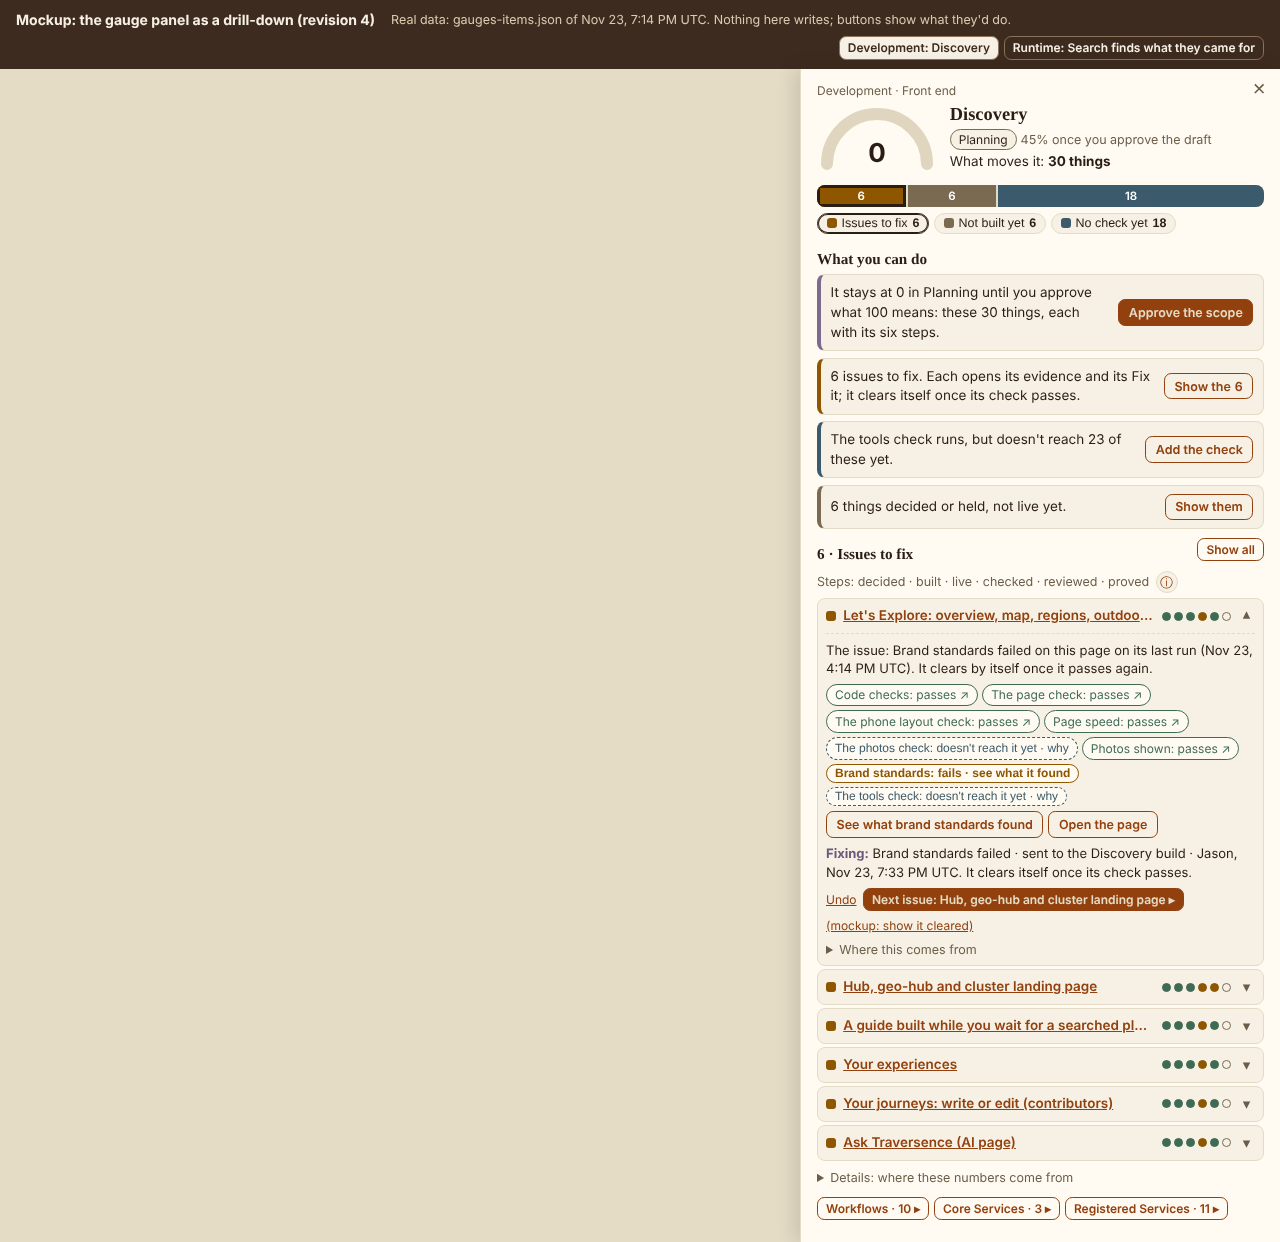
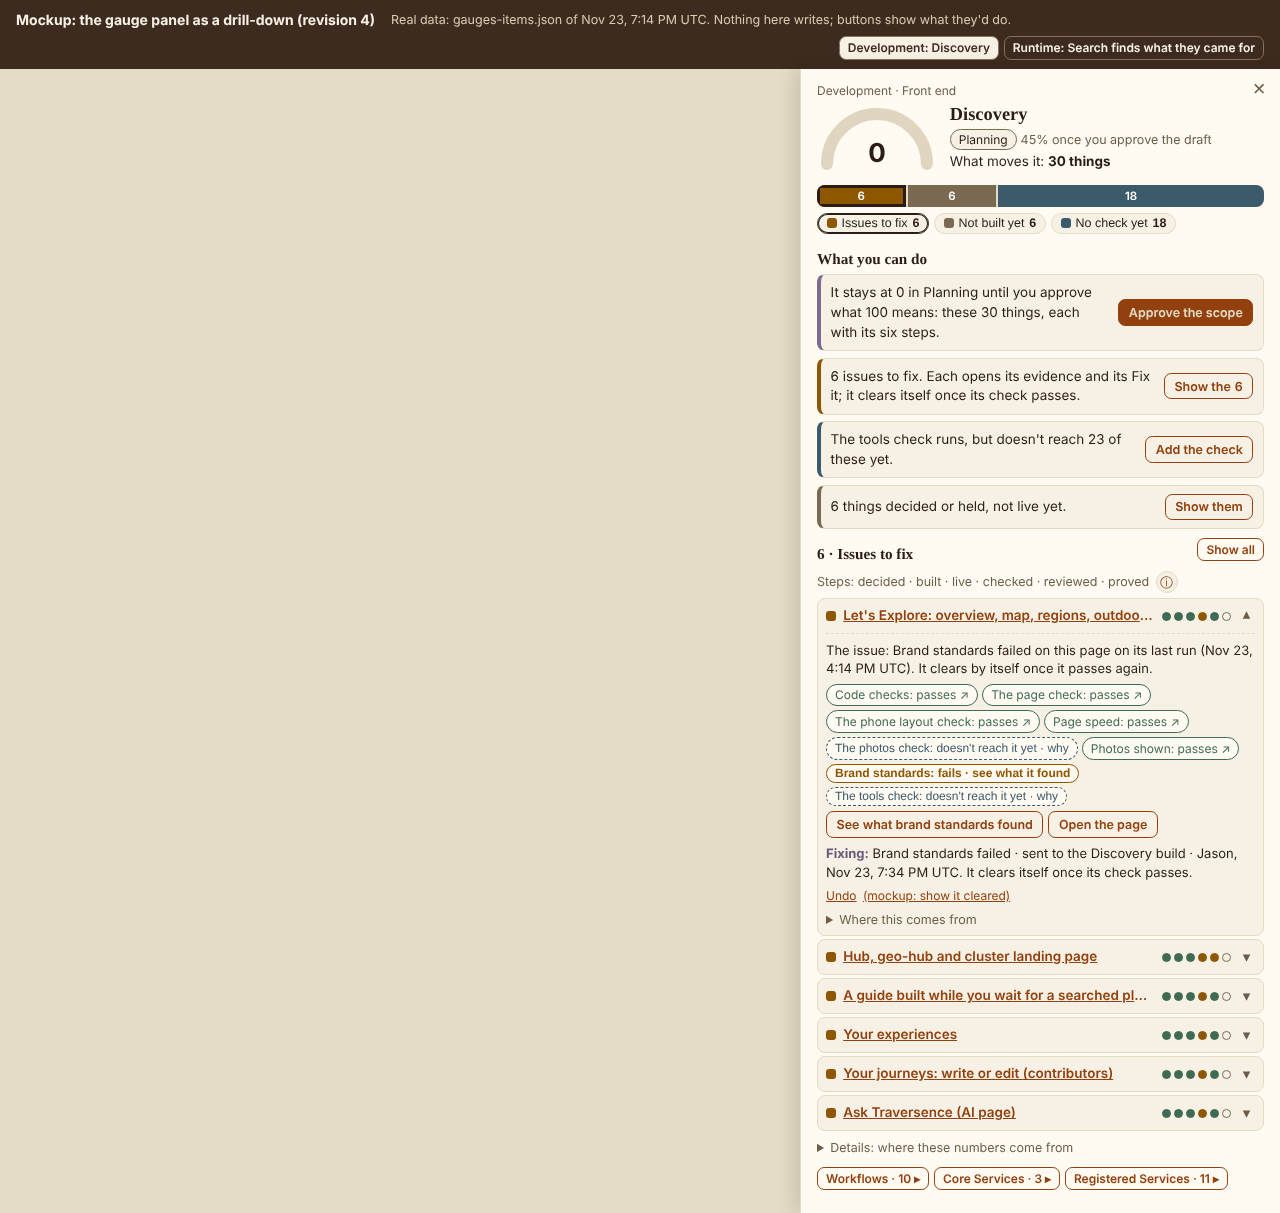
Gauge panel mockup, revision 4: one item, one cycle (no Next), per CLAUDE.md #1309
Claude-Session: https://claude.ai/code/session_01CXLi5hL7DpeN9WxT3oMXQK

Changed region(s): [[0.625, 0.0, 1.0, 1.0]]

diff --git a/handoffs/gauge-panel/mockup.html b/handoffs/gauge-panel/mockup.html
@@ -105,11 +105,10 @@ function filt(sp,f){const on=f&&f!=='all'&&sp._f!==f?f:null;sp._f=on;const ul=$(
 function done(btn,line){const box=btn.closest('.acts')||btn.parentNode;const d=document.createElement('div');d.className='done';
  d.innerHTML='<span>'+line+'</span><button type="button" class="sl" data-undo>Undo</button>'+(btn.dataset.send!==undefined?'<button type="button" class="sl" data-demo>(mockup: show it cleared)</button>':'');
  d.querySelector('[data-undo]').onclick=()=>{btn.hidden=false;d.remove();toast('Undone.');};
- // step 3 confirmed by its check, then step 4: the next step as its own button (CLAUDE.md "Every action is a task")
- const demo=d.querySelector('[data-demo]');if(demo)demo.onclick=()=>{const nx=btn.dataset.next||'';box.hidden=true;const it=btn.closest('.it');if(it){$$('.chip.c-fail',it).forEach(c=>c.remove());move(it);}
-  d.innerHTML='<span><b class="ok">Cleared:</b> its check passed, '+now()+'.</span>'+(nx?'<button type="button" class="b go sm" data-send="next" data-what="'+esc(nx)+'">Next: '+esc(nx)+'</button>':'<span>Nothing more: every step met.</span>');};
+ // one item is one cycle; it ends at its confirmation, cleared by its check, and the counts follow (CLAUDE.md #1309)
+ const demo=d.querySelector('[data-demo]');if(demo)demo.onclick=()=>{box.hidden=true;const it=btn.closest('.it');if(it){$$('.chip.c-fail',it).forEach(c=>c.remove());move(it);}
+  d.innerHTML='<span><b class="ok">Cleared:</b> its check passed, '+now()+'.</span>';};
  btn.hidden=true;box.after(d);}
-// step 4 right after Fixing: the next issue opens, or the last one goes back to the gauge (Design reviewer, 2026-11-23)
 // counts follow the state (Design reviewer, 2026-11-23): a cleared item leaves its group, every count drops with it
 function move(it){const sp=it.closest('.sp');const to=it.dataset.after||'ok';it.dataset.b=to;const bk=it.querySelector('.ih .bk');if(bk)bk.className='bk bk-'+to;
  const n=$$('.it[data-b]',sp).length,c={};$$('.it[data-b]',sp).forEach(x=>c[x.dataset.b]=(c[x.dataset.b]||0)+1);
@@ -119,13 +118,7 @@ function move(it){const sp=it.closest('.sp');const to=it.dataset.after||'ok';it.
  const dl=it.querySelector('.dots');if(dl)dl.setAttribute('aria-label',dl.getAttribute('aria-label').replace(/an issue/g,to==='check'?'no check yet':'met'));
  const dw=it.querySelector('.dword');if(dw)dw.textContent=to==='check'?'No check yet at checked':'Every step met';
  const h=$('#lh-t',sp);if(h&&sp._f){const lg=$('.lg[data-f='+sp._f+']',sp);h.textContent=(c[sp._f]||0)+' · '+lg.textContent.replace(/\s*\d+$/,'').trim()+' (1 just cleared, still shown)';}
-}   // the row stays in view with its Cleared line and Next; it leaves the list the next time the list is filtered
-function nextIssue(btn){const it=btn.closest('.it[data-b]');if(!it)return;const sp=it.closest('.sp');const d=it.querySelector('.done');
- const rest=$$('.it[data-b='+it.dataset.b+']',sp).filter(x=>x!==it&&!x.querySelector('.done'));const b=document.createElement('button');b.type='button';b.className='b go sm';
- if(rest.length){const nx=rest[0];b.textContent='Next issue: '+nx.querySelector('.nm').textContent+' ▸';b.onclick=()=>{it.querySelector('.ib').hidden=true;it.querySelector('.ex').setAttribute('aria-expanded','false');
-  $('.items',sp).classList.add('all');nx.hidden=false;nx.querySelector('.ib').hidden=false;nx.querySelector('.ex').setAttribute('aria-expanded','true');nx.scrollIntoView({block:'nearest',behavior:'smooth'});nx.querySelector('.ib .b.go').focus({preventScroll:true});};}
- else{const n=$$('.it[data-b='+it.dataset.b+']',sp).length;b.textContent='All '+n+' sent: back to the gauge';b.onclick=()=>{sp.scrollIntoView({block:'start',behavior:'smooth'});};}
- d.querySelector('[data-demo]').before(b);}
+}   // the row stays in view with its Cleared line; it leaves the list the next time the list is filtered
 document.addEventListener('click',ev=>{const t=ev.target.closest('button,a');const leg=$('.dleg:not([hidden])');
  if(leg&&!ev.target.closest('.dleg,.info')){leg.hidden=true;$('.info[aria-expanded=true]').setAttribute('aria-expanded','false');}
  if(!t)return;const sp=t.closest('.sp');
@@ -139,7 +132,7 @@ document.addEventListener('click',ev=>{const t=ev.target.closest('button,a');con
  const href=t.getAttribute('href')||'';
  if(href.startsWith('#ac-')){ev.preventDefault();const c=$(href);c.scrollIntoView({block:'center',behavior:'smooth'});c.classList.add('flash');setTimeout(()=>c.classList.remove('flash'),1400);c.querySelector('.b').focus({preventScroll:true});return;}
  if(href.startsWith('#site-health')){ev.preventDefault();toast('Scrolls to its row in Site health, on the Development page under the gauges.');return;}
- if(t.dataset.send!==undefined){const g=(sp&&sp.dataset.gauge)||'its';done(t,'<b>Fixing:</b> '+esc(t.dataset.what||'the issue')+' · sent to the '+esc(g)+' build · Jason, '+now()+'. It clears itself once its check passes.');nextIssue(t);return;}
+ if(t.dataset.send!==undefined){const g=(sp&&sp.dataset.gauge)||'its';done(t,'<b>Fixing:</b> '+esc(t.dataset.what||'the issue')+' · sent to the '+esc(g)+' build · Jason, '+now()+'. It clears itself once its check passes.');return;}
  if(t.dataset.sign!==undefined){const s=t.dataset.sign;done(t,s==='scope'?'<b>Scope approved</b> by Jason, '+now()+'. The gauge leaves Planning.':s==='target'?'<b>Target approved</b> by Jason, '+now()+'.':'<b>Done</b> by Jason, '+now()+'.');return;}
  if(t.dataset.path){toast('Opens the '+t.textContent.replace(/\s*·.*/,'')+' path: each one a row that opens its own page.');return;}
  if(t.dataset.open&&sp){ev.preventDefault();sub(sp,t.dataset.open,t.dataset.id);return;}

diff --git a/handoffs/gauge-panel/mockup.js b/handoffs/gauge-panel/mockup.js
@@ -17,11 +17,10 @@ function filt(sp,f){const on=f&&f!=='all'&&sp._f!==f?f:null;sp._f=on;const ul=$(
 function done(btn,line){const box=btn.closest('.acts')||btn.parentNode;const d=document.createElement('div');d.className='done';
  d.innerHTML='<span>'+line+'</span><button type="button" class="sl" data-undo>Undo</button>'+(btn.dataset.send!==undefined?'<button type="button" class="sl" data-demo>(mockup: show it cleared)</button>':'');
  d.querySelector('[data-undo]').onclick=()=>{btn.hidden=false;d.remove();toast('Undone.');};
- // step 3 confirmed by its check, then step 4: the next step as its own button (CLAUDE.md "Every action is a task")
- const demo=d.querySelector('[data-demo]');if(demo)demo.onclick=()=>{const nx=btn.dataset.next||'';box.hidden=true;const it=btn.closest('.it');if(it){$$('.chip.c-fail',it).forEach(c=>c.remove());move(it);}
-  d.innerHTML='<span><b class="ok">Cleared:</b> its check passed, '+now()+'.</span>'+(nx?'<button type="button" class="b go sm" data-send="next" data-what="'+esc(nx)+'">Next: '+esc(nx)+'</button>':'<span>Nothing more: every step met.</span>');};
+ // one item is one cycle; it ends at its confirmation, cleared by its check, and the counts follow (CLAUDE.md #1309)
+ const demo=d.querySelector('[data-demo]');if(demo)demo.onclick=()=>{box.hidden=true;const it=btn.closest('.it');if(it){$$('.chip.c-fail',it).forEach(c=>c.remove());move(it);}
+  d.innerHTML='<span><b class="ok">Cleared:</b> its check passed, '+now()+'.</span>';};
  btn.hidden=true;box.after(d);}
-// step 4 right after Fixing: the next issue opens, or the last one goes back to the gauge (Design reviewer, 2026-11-23)
 // counts follow the state (Design reviewer, 2026-11-23): a cleared item leaves its group, every count drops with it
 function move(it){const sp=it.closest('.sp');const to=it.dataset.after||'ok';it.dataset.b=to;const bk=it.querySelector('.ih .bk');if(bk)bk.className='bk bk-'+to;
  const n=$$('.it[data-b]',sp).length,c={};$$('.it[data-b]',sp).forEach(x=>c[x.dataset.b]=(c[x.dataset.b]||0)+1);
@@ -31,13 +30,7 @@ function move(it){const sp=it.closest('.sp');const to=it.dataset.after||'ok';it.
  const dl=it.querySelector('.dots');if(dl)dl.setAttribute('aria-label',dl.getAttribute('aria-label').replace(/an issue/g,to==='check'?'no check yet':'met'));
  const dw=it.querySelector('.dword');if(dw)dw.textContent=to==='check'?'No check yet at checked':'Every step met';
  const h=$('#lh-t',sp);if(h&&sp._f){const lg=$('.lg[data-f='+sp._f+']',sp);h.textContent=(c[sp._f]||0)+' · '+lg.textContent.replace(/\s*\d+$/,'').trim()+' (1 just cleared, still shown)';}
-}   // the row stays in view with its Cleared line and Next; it leaves the list the next time the list is filtered
-function nextIssue(btn){const it=btn.closest('.it[data-b]');if(!it)return;const sp=it.closest('.sp');const d=it.querySelector('.done');
- const rest=$$('.it[data-b='+it.dataset.b+']',sp).filter(x=>x!==it&&!x.querySelector('.done'));const b=document.createElement('button');b.type='button';b.className='b go sm';
- if(rest.length){const nx=rest[0];b.textContent='Next issue: '+nx.querySelector('.nm').textContent+' ▸';b.onclick=()=>{it.querySelector('.ib').hidden=true;it.querySelector('.ex').setAttribute('aria-expanded','false');
-  $('.items',sp).classList.add('all');nx.hidden=false;nx.querySelector('.ib').hidden=false;nx.querySelector('.ex').setAttribute('aria-expanded','true');nx.scrollIntoView({block:'nearest',behavior:'smooth'});nx.querySelector('.ib .b.go').focus({preventScroll:true});};}
- else{const n=$$('.it[data-b='+it.dataset.b+']',sp).length;b.textContent='All '+n+' sent: back to the gauge';b.onclick=()=>{sp.scrollIntoView({block:'start',behavior:'smooth'});};}
- d.querySelector('[data-demo]').before(b);}
+}   // the row stays in view with its Cleared line; it leaves the list the next time the list is filtered
 document.addEventListener('click',ev=>{const t=ev.target.closest('button,a');const leg=$('.dleg:not([hidden])');
  if(leg&&!ev.target.closest('.dleg,.info')){leg.hidden=true;$('.info[aria-expanded=true]').setAttribute('aria-expanded','false');}
  if(!t)return;const sp=t.closest('.sp');
@@ -51,7 +44,7 @@ document.addEventListener('click',ev=>{const t=ev.target.closest('button,a');con
  const href=t.getAttribute('href')||'';
  if(href.startsWith('#ac-')){ev.preventDefault();const c=$(href);c.scrollIntoView({block:'center',behavior:'smooth'});c.classList.add('flash');setTimeout(()=>c.classList.remove('flash'),1400);c.querySelector('.b').focus({preventScroll:true});return;}
  if(href.startsWith('#site-health')){ev.preventDefault();toast('Scrolls to its row in Site health, on the Development page under the gauges.');return;}
- if(t.dataset.send!==undefined){const g=(sp&&sp.dataset.gauge)||'its';done(t,'<b>Fixing:</b> '+esc(t.dataset.what||'the issue')+' · sent to the '+esc(g)+' build · Jason, '+now()+'. It clears itself once its check passes.');nextIssue(t);return;}
+ if(t.dataset.send!==undefined){const g=(sp&&sp.dataset.gauge)||'its';done(t,'<b>Fixing:</b> '+esc(t.dataset.what||'the issue')+' · sent to the '+esc(g)+' build · Jason, '+now()+'. It clears itself once its check passes.');return;}
  if(t.dataset.sign!==undefined){const s=t.dataset.sign;done(t,s==='scope'?'<b>Scope approved</b> by Jason, '+now()+'. The gauge leaves Planning.':s==='target'?'<b>Target approved</b> by Jason, '+now()+'.':'<b>Done</b> by Jason, '+now()+'.');return;}
  if(t.dataset.path){toast('Opens the '+t.textContent.replace(/\s*·.*/,'')+' path: each one a row that opens its own page.');return;}
  if(t.dataset.open&&sp){ev.preventDefault();sub(sp,t.dataset.open,t.dataset.id);return;}

diff --git a/handoffs/gauge-panel.md b/handoffs/gauge-panel.md
@@ -121,32 +121,38 @@ The build also moves gauges.py to the new rule: reviewed is met on a live item w
 Walked again: `walk.cjs`, all passed at 1280 and 390. It now also checks that no item has a Sign off, and that Fix it
 turns into its Fixing line, which Undo turns back.
 
-## Revision 4: step 4, the next step (Jason's standing rule, CLAUDE.md #1308, 2026-11-23)
+## Revision 4: one item, one cycle (Jason, CLAUDE.md #1308 and #1309, 2026-11-23)
 
-"Every action is a task: see it, do it, confirmed, next." After "Fixing…":
-- **Step 3, confirmed:** the item's check passes and the row reads "Cleared: its check passed, <time>". The issue's buttons
-  and its failing chip go.
-- **Step 4, next:** what follows, as its own button, worked out per item: "Next: Add a check: the photos check", "Next:
-  Put it live: its release" or "Next: Prove it on live data: add a path check". If nothing follows: "Nothing more: every
-  step met".
-- The mockup shows step 3 with a "(mockup: show it cleared)" link. On the site it comes from the check's next pass.
-  walk.cjs checks step 3, then step 4's button, and that the issue's buttons are gone, at 1280 and 390.
+Jason: "Don't convolute processes or tasks. Fixing an alarm concludes with the single alarm being fixed, whereas a process
+that covers fixing all alarms is multiple single cycles of the process linked to a workflow." CLAUDE.md #1309: a single
+task ends at its confirmation, with Undo, and the lists and counts update; a "Next" button appears only within a chained
+process.
+
+- **One item is one cycle:**
+  1. view its evidence;
+  2. Fix it;
+  3. "Fixing: <the issue> · sent to the Discovery build · Jason, <time> · Undo";
+  4. "Cleared: its check passed, <time>". It ends there.
+- **No "Next" anywhere.** The "Next issue ▸", "All 6 sent" and the cleared row's "Next: …" were tried and withdrawn. An
+  item's next task, if it has one, shows as its own item in its own group, with its own button.
+- **Counts follow the state.** A cleared item leaves its group. The bar, the chip, the card's "Show the 5", the heading
+  ("5 · Issues to fix (1 just cleared, still shown)") and its dots all drop at once. That's how the person sees the cycle
+  close. The row stays in view until the list is filtered again. An empty group's segment and chip hide.
+- **The mockup shows Cleared** with a "(mockup: show it cleared)" link. On the site it comes from the check's next pass.
+- **Wording:** "sent to the Discovery build"; "Brand standards failed".
+- **The scope card stays,** as "Approve the scope" (the session manager: "Approving a scope is a real decision of Jason's,
+  not an issue being cleared"). It's what moves a gauge out of Planning (§3). Its line reads "Scope approved by Jason,
+  <time> · Undo". "Approve the target" works the same way.
+- **walk.cjs** checks, at 1280 and 390, that:
+  - no item has a Sign off;
+  - Fix it turns into its Fixing line, which Undo turns back;
+  - there's no Next after Fixing or after Cleared;
+  - the counts drop from 6 to 5.
 
 Joining this release (the session manager, 2026-11-23): Jason's "a finished step replaces its form" across every
 tv_ops_form on the cards.
 - After a press, one line: "Signs in as … · recorded by …, <time>", with Change and Undo. The form folds away.
 - No notice repeats the line, and no notice promises a button that isn't on screen.
-
-Also in revision 4, from the Design reviewer's revision 3 review and the session manager's ruling (2026-11-23):
-- **Step 4 right after Fixing:** "Next issue: <its name> ▸" opens the next issue in the same group. On the last one it
-  reads "All 6 sent: back to the gauge". Once the item clears, its own Next replaces it.
-- **The Fixing line names the build:** "sent to the Discovery build". The issue reads "Brand standards failed".
-- **Counts follow the state.** Once an item clears, it leaves its group: the bar, the chips, the card's "Show the 5",
-  the heading ("5 · Issues to fix (1 just cleared, still shown)") and its dots all drop at once. The row stays in view
-  with its Cleared line and Next until the list is filtered again. An empty group's segment and chip hide.
-- **The scope card stays,** as "Approve the scope" (not "Sign off"). The session manager: "Approving a scope is a real
-  decision of Jason's, not an issue being cleared". It's what moves a gauge out of Planning (§3). Its done line reads
-  "Scope approved by Jason, <time> · Undo". The target works the same way, with "Approve the target".
 
 ## Every element and where it leads
 
